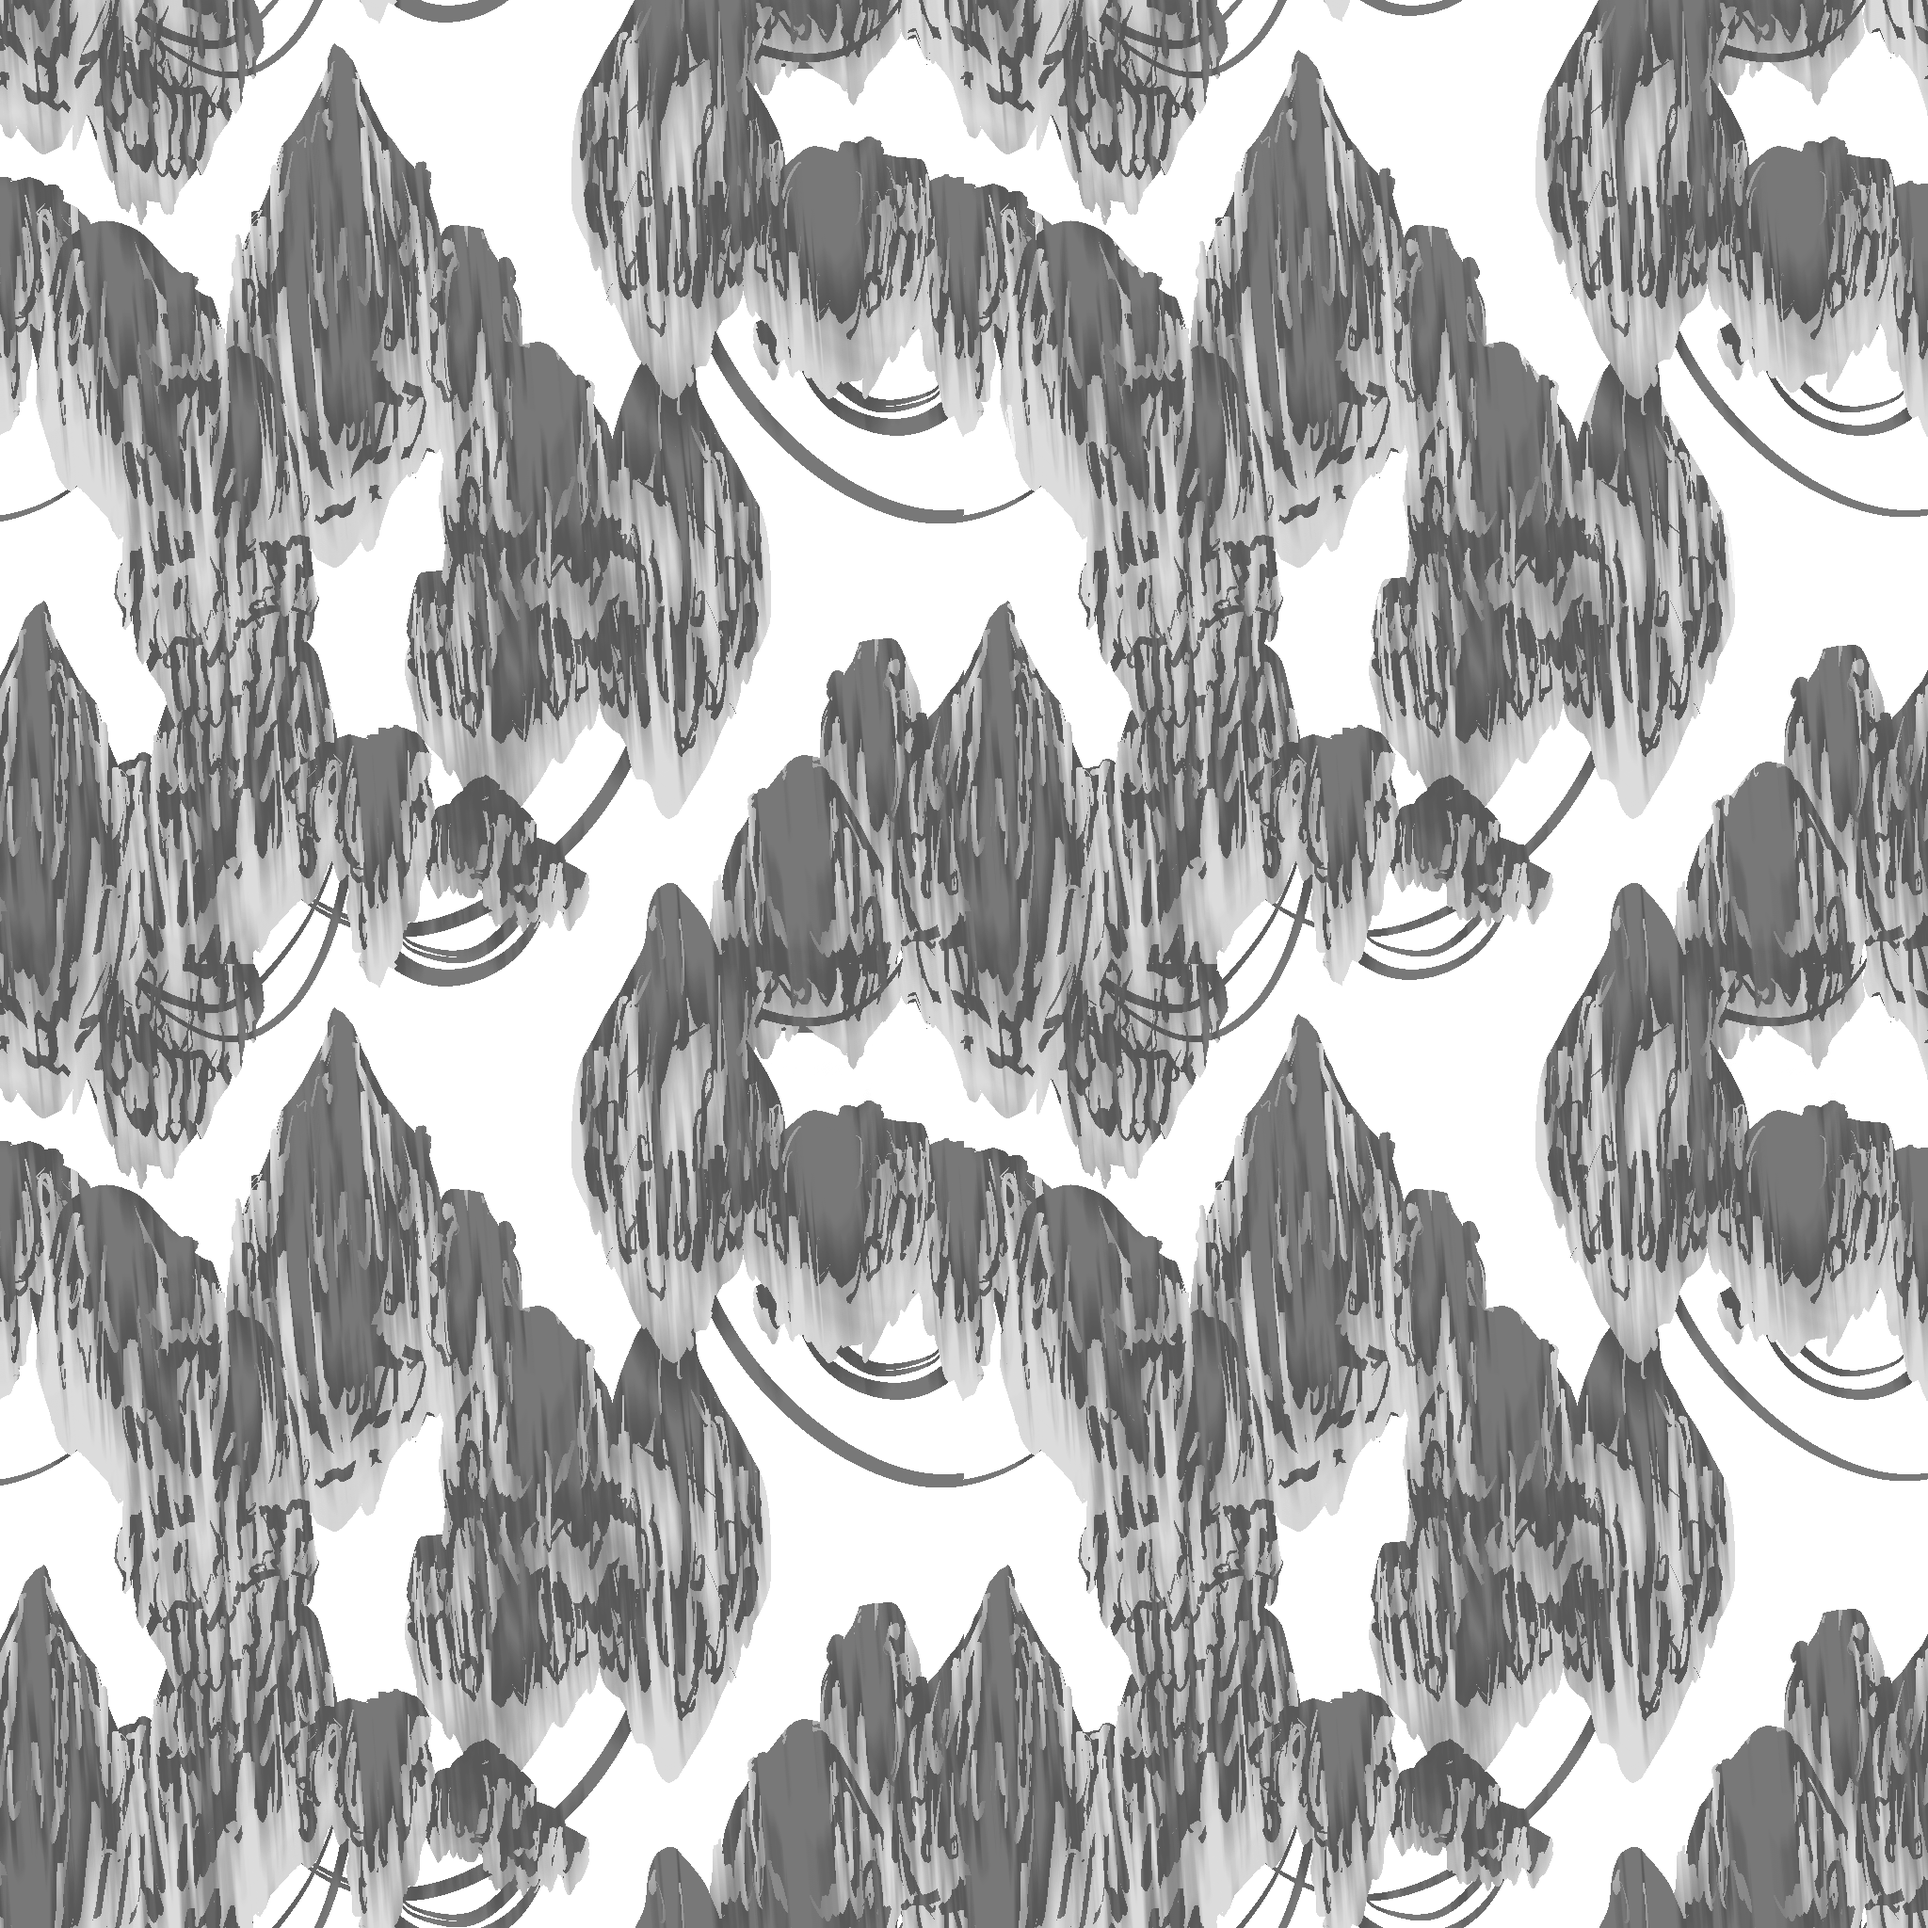
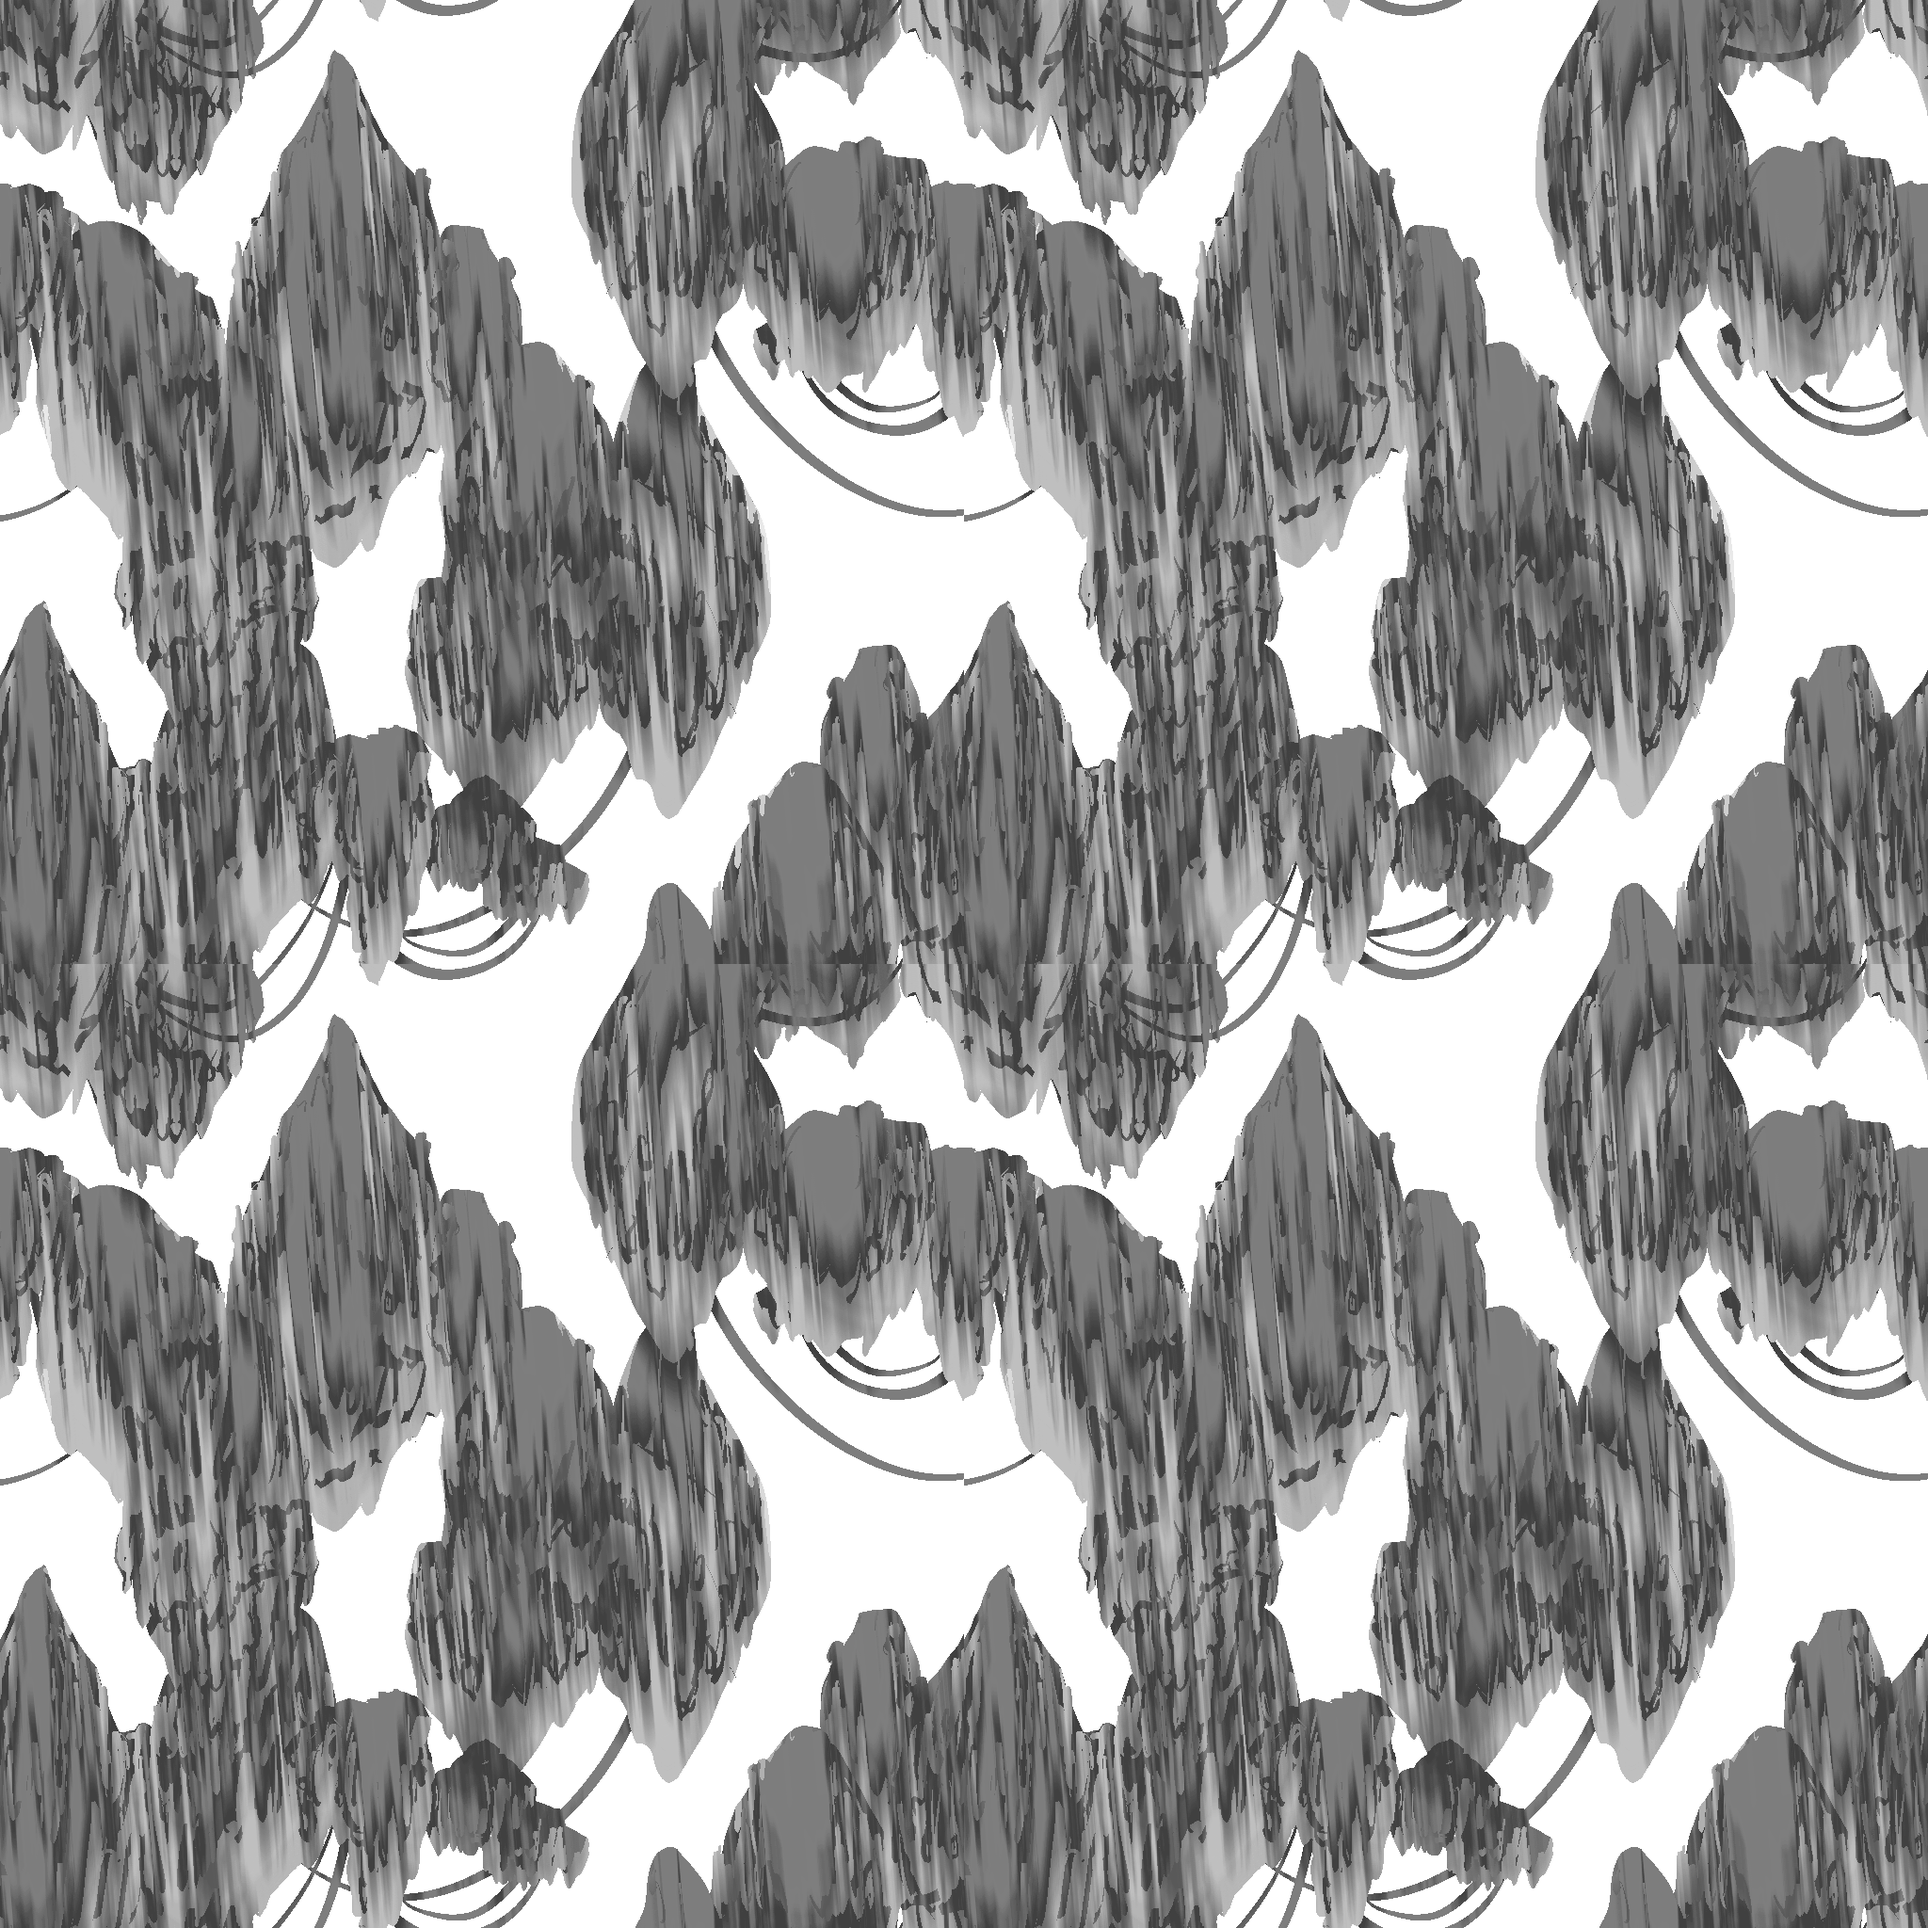
gradient temp fix

diff --git a/scripts/world.py b/scripts/world.py
@@ -182,7 +182,7 @@ class World:
         if kind_visibility:
             layer.fill((200, 200, 200))
         else:
-            layer.fill((10,10,10))
+            layer.fill((5,5,5))
             #self.terrain.draw_depth_background(layer, frame, offset_x=offset_x, offset_y=offset_y)
 
 
@@ -201,6 +201,8 @@ class World:
         # struct back elements (behind terrain)
 
         layer.blit(scratch_layer, (0, 0), special_flags=pygame.BLEND_RGB_MULT)
+
+        self.light.draw_gradient(layer, frame, self.player.color, self.player.x, self.player.y, offset_x=offset_x, offset_y=offset_y)
 
         scratch_layer.fill(self.terrain.get_frame_color(layer, frame))
         layer.blit(scratch_layer, (0, 0), special_flags=pygame.BLEND_RGB_MULT)

diff --git a/scripts/lighting.py b/scripts/lighting.py
@@ -56,10 +56,10 @@ class Lighting:
             if self.particles[i].tick(frame_length) == "end":
                 del self.particles[i]
 
-    def draw_gradient(self, surface: pygame.Surface, frame, color, x, y, offset_x=0, offset_y=0):
+    def draw_gradient(self, surface: pygame.Surface, frame, color, x, y, size=400, offset_x=0, offset_y=0):
         left, top, zoom = frame
 
-        img_lookup = self.resized_light_im_gs["gradient_400"]
+        img_lookup = self.resized_light_im_gs["gradient_" + str(size)]
         dimensions = img_lookup[zoom].get_size()
 
         darken = 60 / 255
